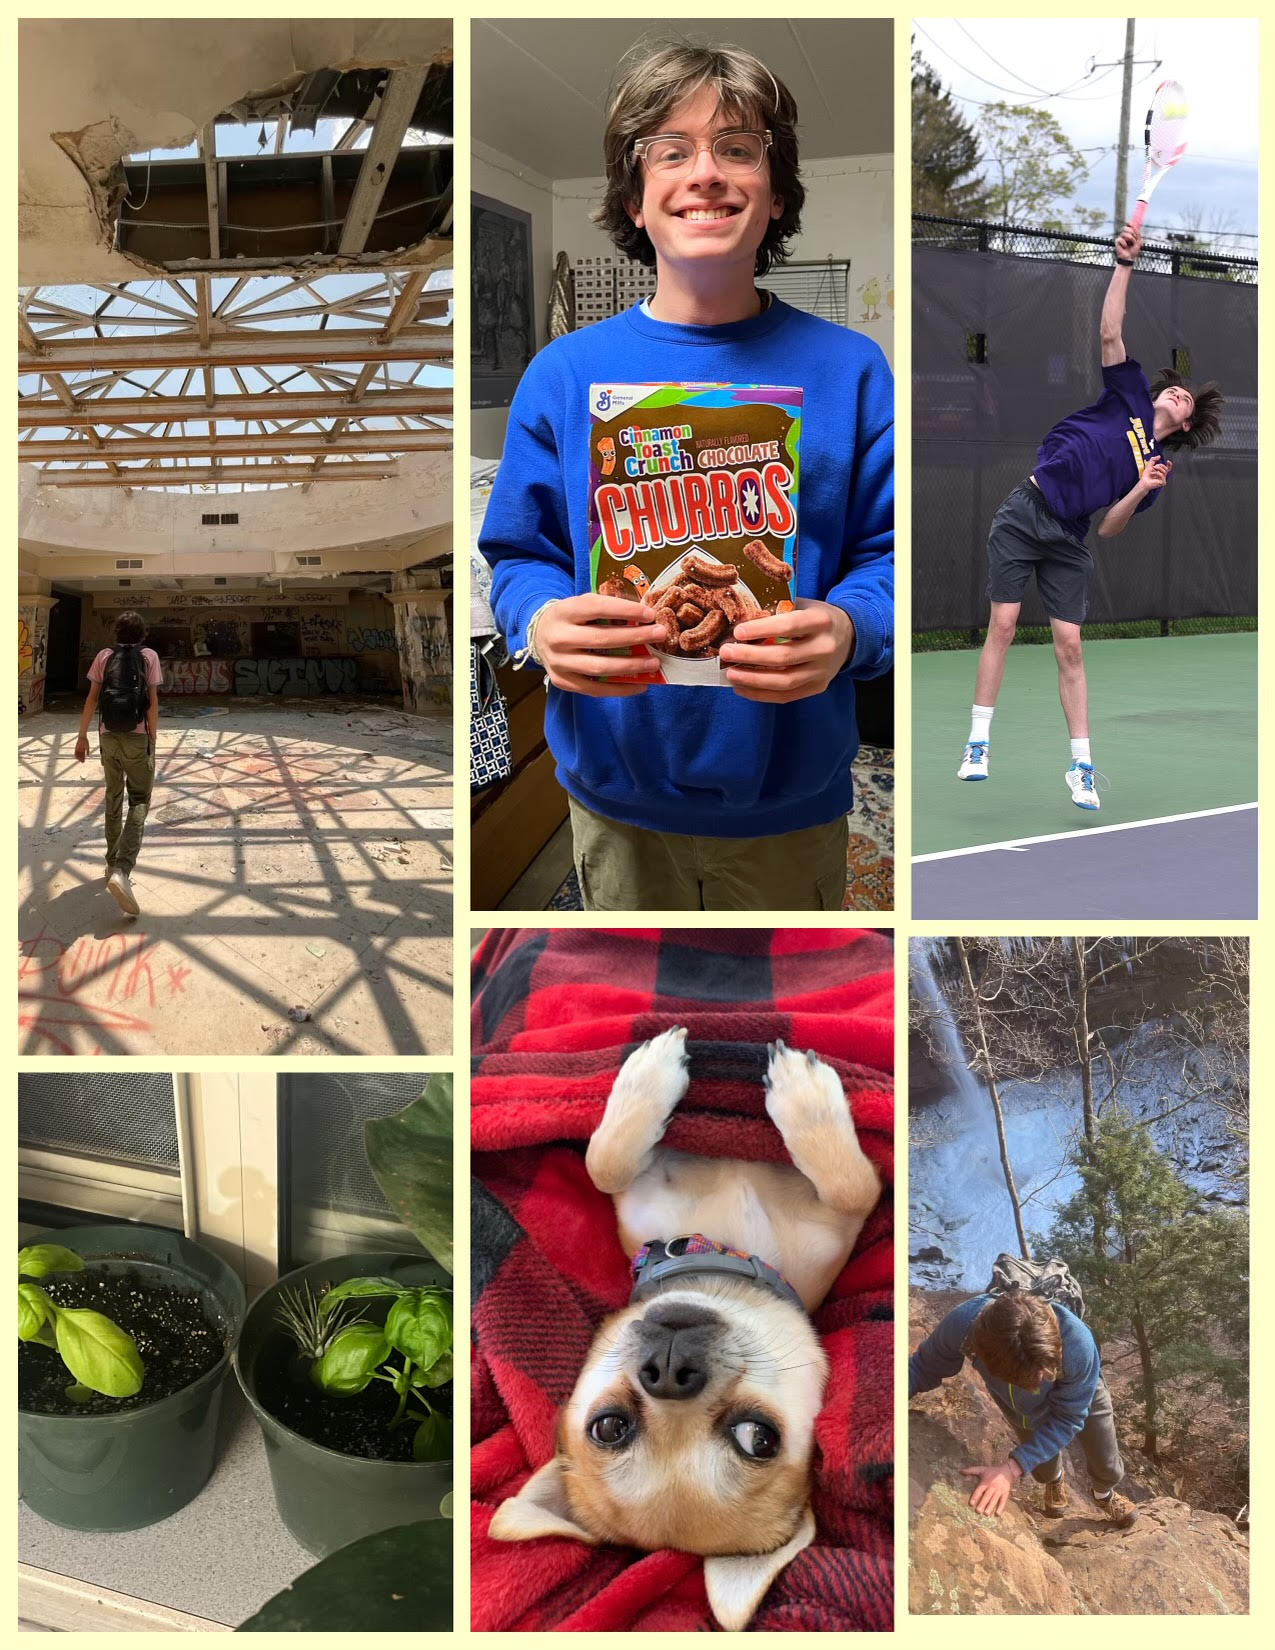
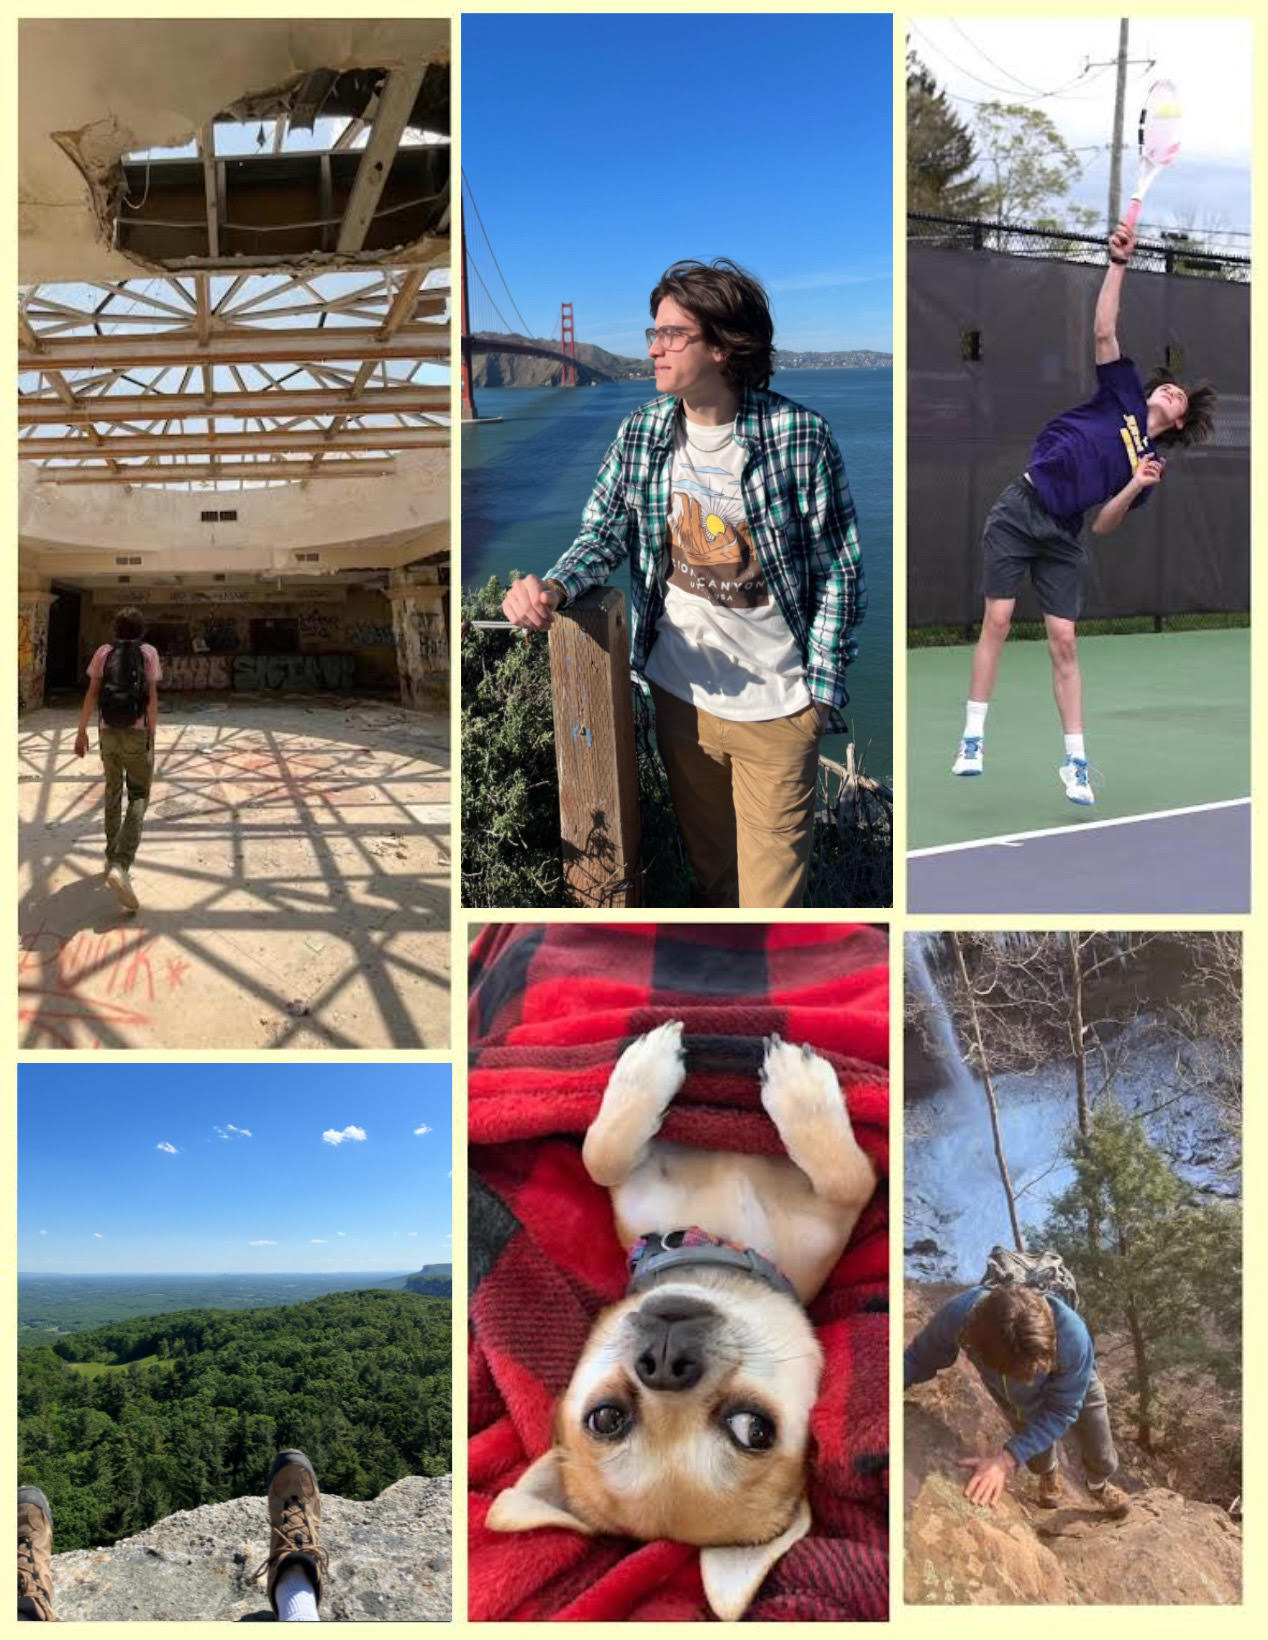
improve home page

diff --git a/HomePage/styleSheet.css b/HomePage/styleSheet.css
@@ -1,23 +1,27 @@
-*{
+* {
     margin: 0;
     padding: 0;
 }
 
-html{
+html {
     height: 100%;
     width: 100%;
 }
 
-body{
+body {
     background-color: #FFFFCC;
-    height:100%;
+    height: 100%;
     width: 100%
+}
+
+a {
+    display: inline-block;
 }
 
 /*-----------*/
 /*-Home-Page-*/
 /*-----------*/
-.mainHeader{
+.mainHeader {
     display: inline-block;
     margin-right: 2%;
     margin-top: 5%;
@@ -26,69 +30,69 @@ body{
     font: bold 50px Arial;
 }
 
-.aboutMe{
+.aboutMe {
     overflow: hidden;
-    margin-left:5%;
-    margin-top: 5%;
-    width:45%;
-    font:normal 20px Arial;
+    margin-left: 5%;
+    width: 45%;
+    font: normal 20px Arial;
     color: black;
 }
-a {
-    display: inline-block;
-}
-.collage{
-    margin-right: 2%;
-    margin-left: 2%;
-    float: right;
+
+.collage {
     width: 40%;
+    margin-right: 2%;
+    float: right;
 }
-.headShot{
+
+.headShot {
     margin-left: 5%;
     margin-top: 2%;
     float: left;
-    width: 15%;
+    width: 10%;
 }
 
 /*-Button-Links-*/
-.projectLink{
+.projectLink {
     color: black;
     margin-left: 1%;
     padding: 0.5%;
-    background-color: #fc9797; 
+    background-color: #fc9797;
     text-align: center;
     font-size: 16px;
     text-decoration: none;
 }
-.projectLink:hover{
+
+.projectLink:hover {
     background-color: #f7abab;
 }
 
-.resumeLink{
+.resumeLink {
     color: black;
     padding: 0.5%;
-    background-color: #E59BE8; 
+    background-color: #E59BE8;
     text-align: center;
     font-size: 16px;
     text-decoration: none;
 }
-.resumeLink:hover{
+
+.resumeLink:hover {
     background-color: #e0b7ed;
 }
 
-.emailMe{
+.emailMe {
     color: black;
     padding: 0.5%;
     text-decoration: none;
-    background-color: #73eb93; 
+    background-color: #73eb93;
     text-align: center;
     font-size: 16px;
 }
-.emailMe:hover{
+
+.emailMe:hover {
     background-color: #97f7b1;
 }
 
-.gitHubLink{
+.gitHubLink {
     color: black;
     padding: 0.5%;
     text-decoration: none;
@@ -96,7 +100,8 @@ a {
     text-align: center;
     font-size: 16px;
 }
-.gitHubLink:hover{
-    background-color: #91d5fa; 
+
+.gitHubLink:hover {
+    background-color: #91d5fa;
 
 }

diff --git a/index.html b/index.html
@@ -21,20 +21,23 @@
     <h1 class="mainHeader">Timothy L Cronin IV</h1>
     <img class="collage" src="resources/collage.jpg" alt="collage">
 
-    <p class="aboutMe"> Hi, I'm Tim.
+    <p class="aboutMe"> 
+        Hi, I'm Tim.
+        <br>
+        <br>I'm a sophomore at Case Western Reserve University and an avid explorer 
+        of both coding and nature (proof to the right).
         <br>
         <br>
-        I am an aspiring computer scientist at Case Western Reserve University, cereal
-        enthusiast, retired tennis player, proud godfather to a rescue chihuahua, owner of two basil
-        plants, and an avid explorer.
+        Coding allows me to design and create things with both a creative and analytical mindset. 
+        Take, for example, this website (check out the source code on my GitHub). 
         <br>
         <br>
-        With a creative approach and analytical thinking, coding
-        enables me to create things such as this website (source code
-        is on my github). I know there are many fields of compupter science
-        and while I don't know my specific interests yet, I can't wait to
-        try them all and learn as much as possible. Stay tuned as I learn
-        more and create new projects in my free time.
+        Thus, I greatly enjoy creating new projects in my free time. Apart from this website, I have created two games, 
+        an instant messaging website, and am currently working on an infinite runner using Unity. 
+        These are all visible in the projects section of my website. 
+        <br>
+        <br>I will continue to update this website with new projects, so stay tuned! 
+
     </p>
     <script src="./HomePage/index-js.js">
     </script>

diff --git a/css/projectPageCSS.css b/css/projectPageCSS.css
@@ -1,0 +1,74 @@
+/*--------------*/
+/*-Project-Page-*/
+/*--------------*/
+*{
+    margin: 0;
+    padding: 0;
+}
+
+html{
+    height: 100%;
+    width: 100%;
+}
+
+body{
+    background-color: #FFFFCC;
+    height:100%;
+    width: 100%
+}
+.bigTitle{
+    width: 40%;
+    margin: auto;
+    text-align: center;
+    background-color: lightpink;
+    color: cornflowerblue;
+    padding: 1%;
+    font: bold 50px Arial;
+}
+
+.metFinLogo{
+    position: absolute;
+    display:inline-block;
+    margin: 5%;
+    width: 40%;
+    height: auto;
+}
+.metFinLogo .logoImage{
+    position: absolute;
+    display: inline-block;
+    width: 100%;
+    height: auto;
+}
+.metFinLogo .logoHover{
+    position: absolute;
+    display: none;
+    width: 100%;
+    height: auto;
+}
+.metFinLogo:hover .logoHover{
+    display:inline-block;
+}
+/* for fishy feeder */
+.ffLogo{
+    position: absolute;
+    display:inline-block;
+    margin-left: 55%;
+    margin-top: 5%;
+    width: 40%;
+    height: auto;
+}
+.ffLogo .ffLogoImg{
+    position: absolute;
+    display: inline-block;
+    width: 100%;
+    height: auto;
+}
+.ffLogo .ffLogoImgH{
+    position: absolute;
+    display: none;
+    width: 100%;
+    height: auto;
+}
+.ffLogo:hover .ffLogoImgH{
+    display:inline-block;
+}

diff --git a/css/metFinCSS.css b/css/metFinCSS.css
@@ -1,0 +1,54 @@
+*{
+    margin: 0;
+    padding: 0;
+}
+
+html{
+    height: 100%;
+    width: 100%;
+}
+
+body{
+    background-color: #FFFFCC;
+    height:100%;
+    width: 100%
+}
+/*---------------------*/
+/*-Meteor-Fingers-Page-*/
+/*---------------------*/
+.metFinPage{
+    background-image: url("../resources/hubblePic.jpg");
+    background-size: stretch;
+    background-repeat:repeat;
+    background-position:center;
+    width: 100%;
+    min-height: 100%;
+}
+
+.metFinTitle{
+    text-align: center;
+    width: auto;
+    height: auto;
+}
+
+.metFinVideo{
+    float:left;
+    margin: 5%;
+}
+
+.metFinWords{
+    font: bold 25px Arial;
+    color: whitesmoke;
+    margin-top: 5%;
+    margin-right:10%;
+    margin-left: 10%;
+
+}
+.metFinLinks{
+    font: bold 20px Arial;
+    color: white;
+}
+
+.metFinLinks:hover{
+    color:aqua;
+}

diff --git a/css/fishyFeederCSS.css b/css/fishyFeederCSS.css
@@ -1,0 +1,38 @@
+body {
+    width: 100%;
+    height: 100%;
+    margin: 0;
+    padding: 0;
+}
+
+.fishyFeederPage {
+    background-color: lightblue;
+    width: 100%;
+    height: 100vh;
+}
+
+.longFFLogo {
+    text-align: center;
+    width: auto;
+    height: auto;
+}
+
+.ffWords {
+    font: bold 20px Arial;
+    color:black;
+    margin-top: 5%;
+    margin-right: 10%;
+    margin-left: 10%;
+
+}
+
+.ffLinks {
+    font: bold 20px Arial;
+    color: black;
+    display: inline-block;
+    margin-left: 5%;
+}
+
+.ffLinks:hover {
+    color: aqua;
+}
